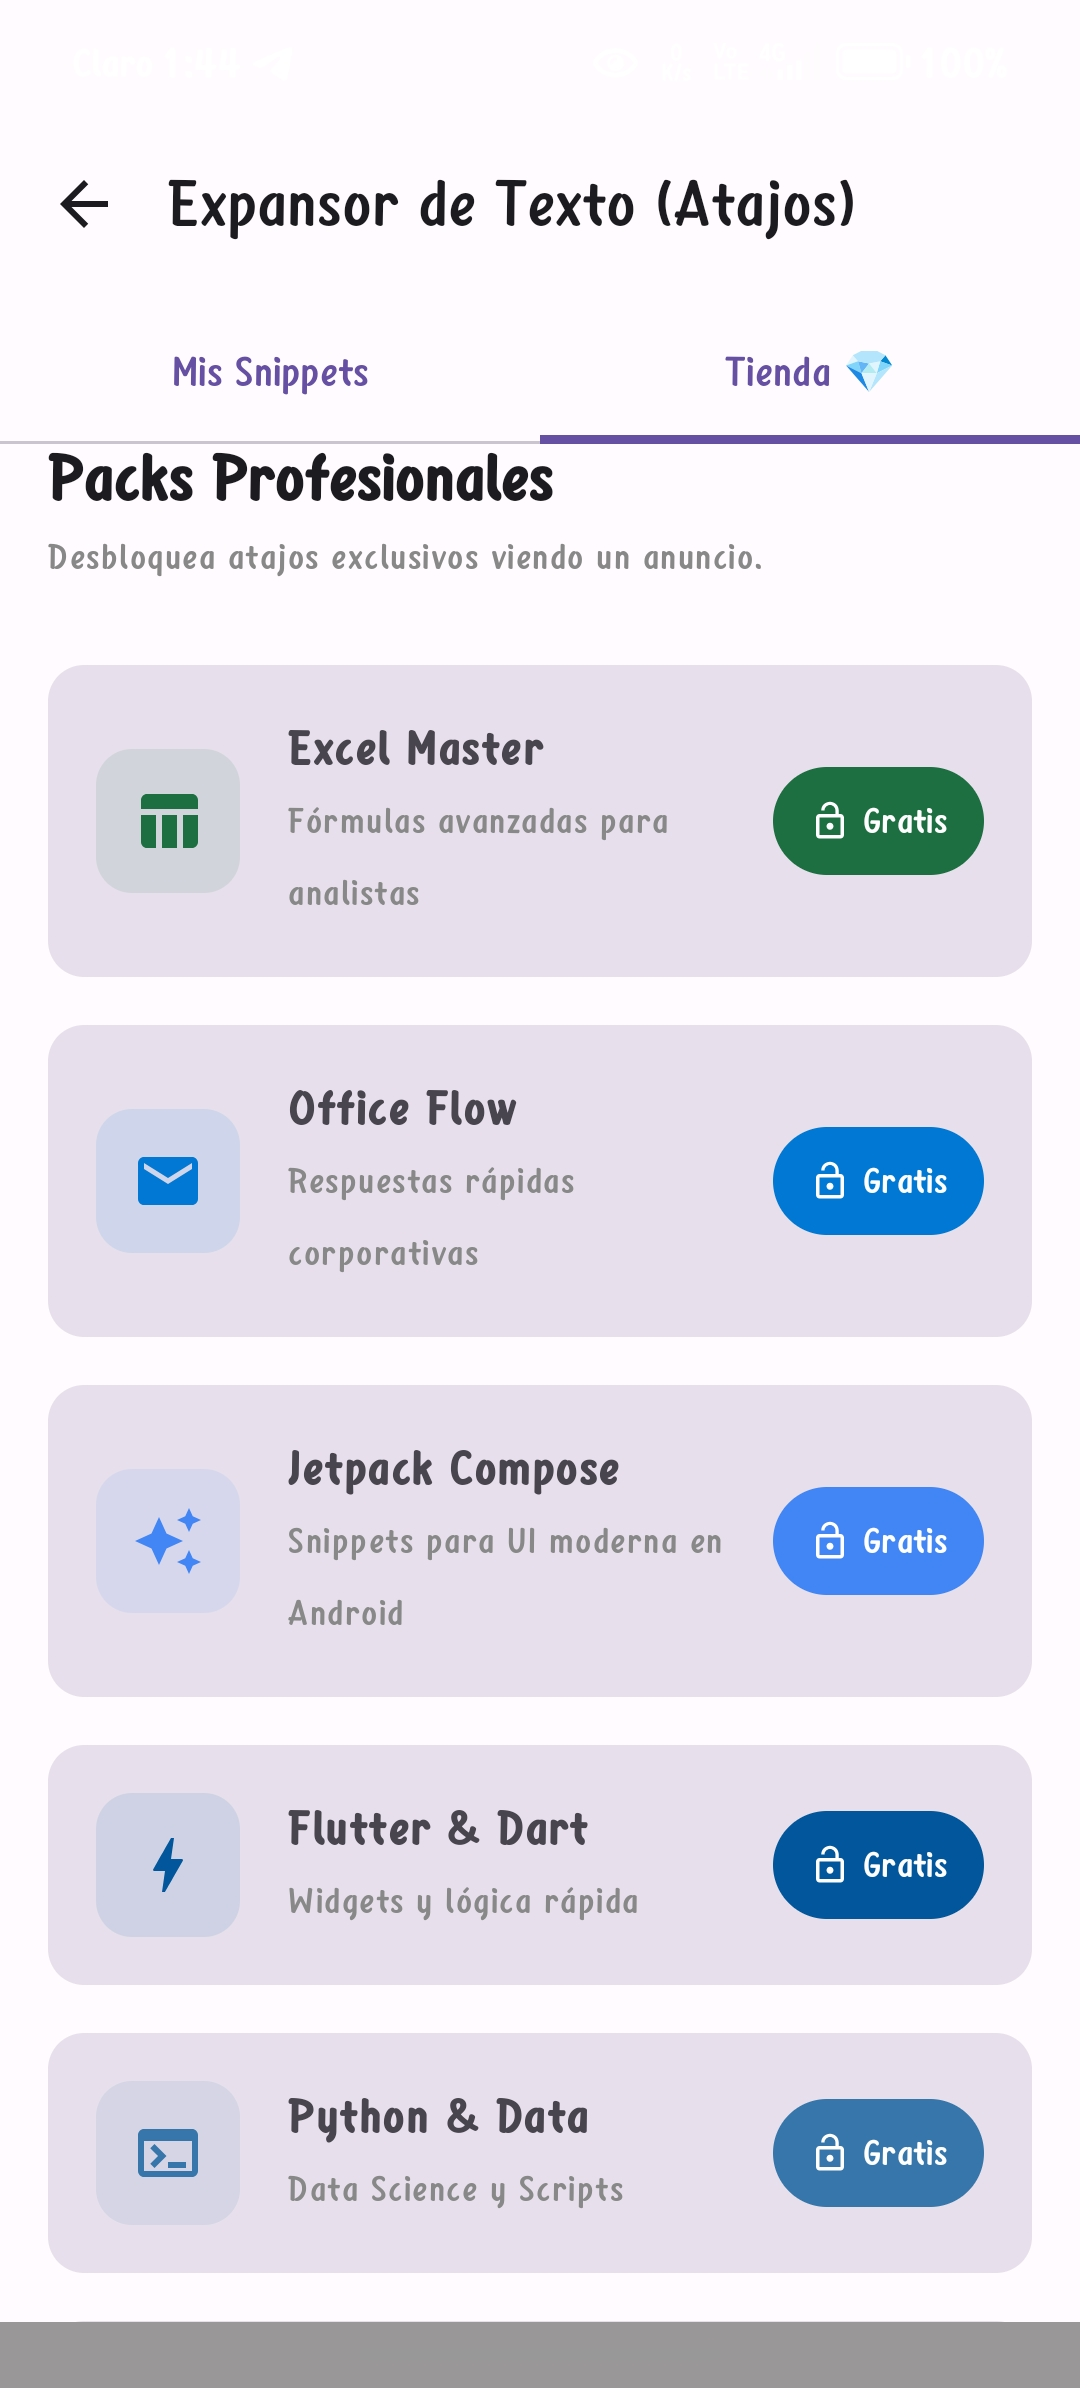
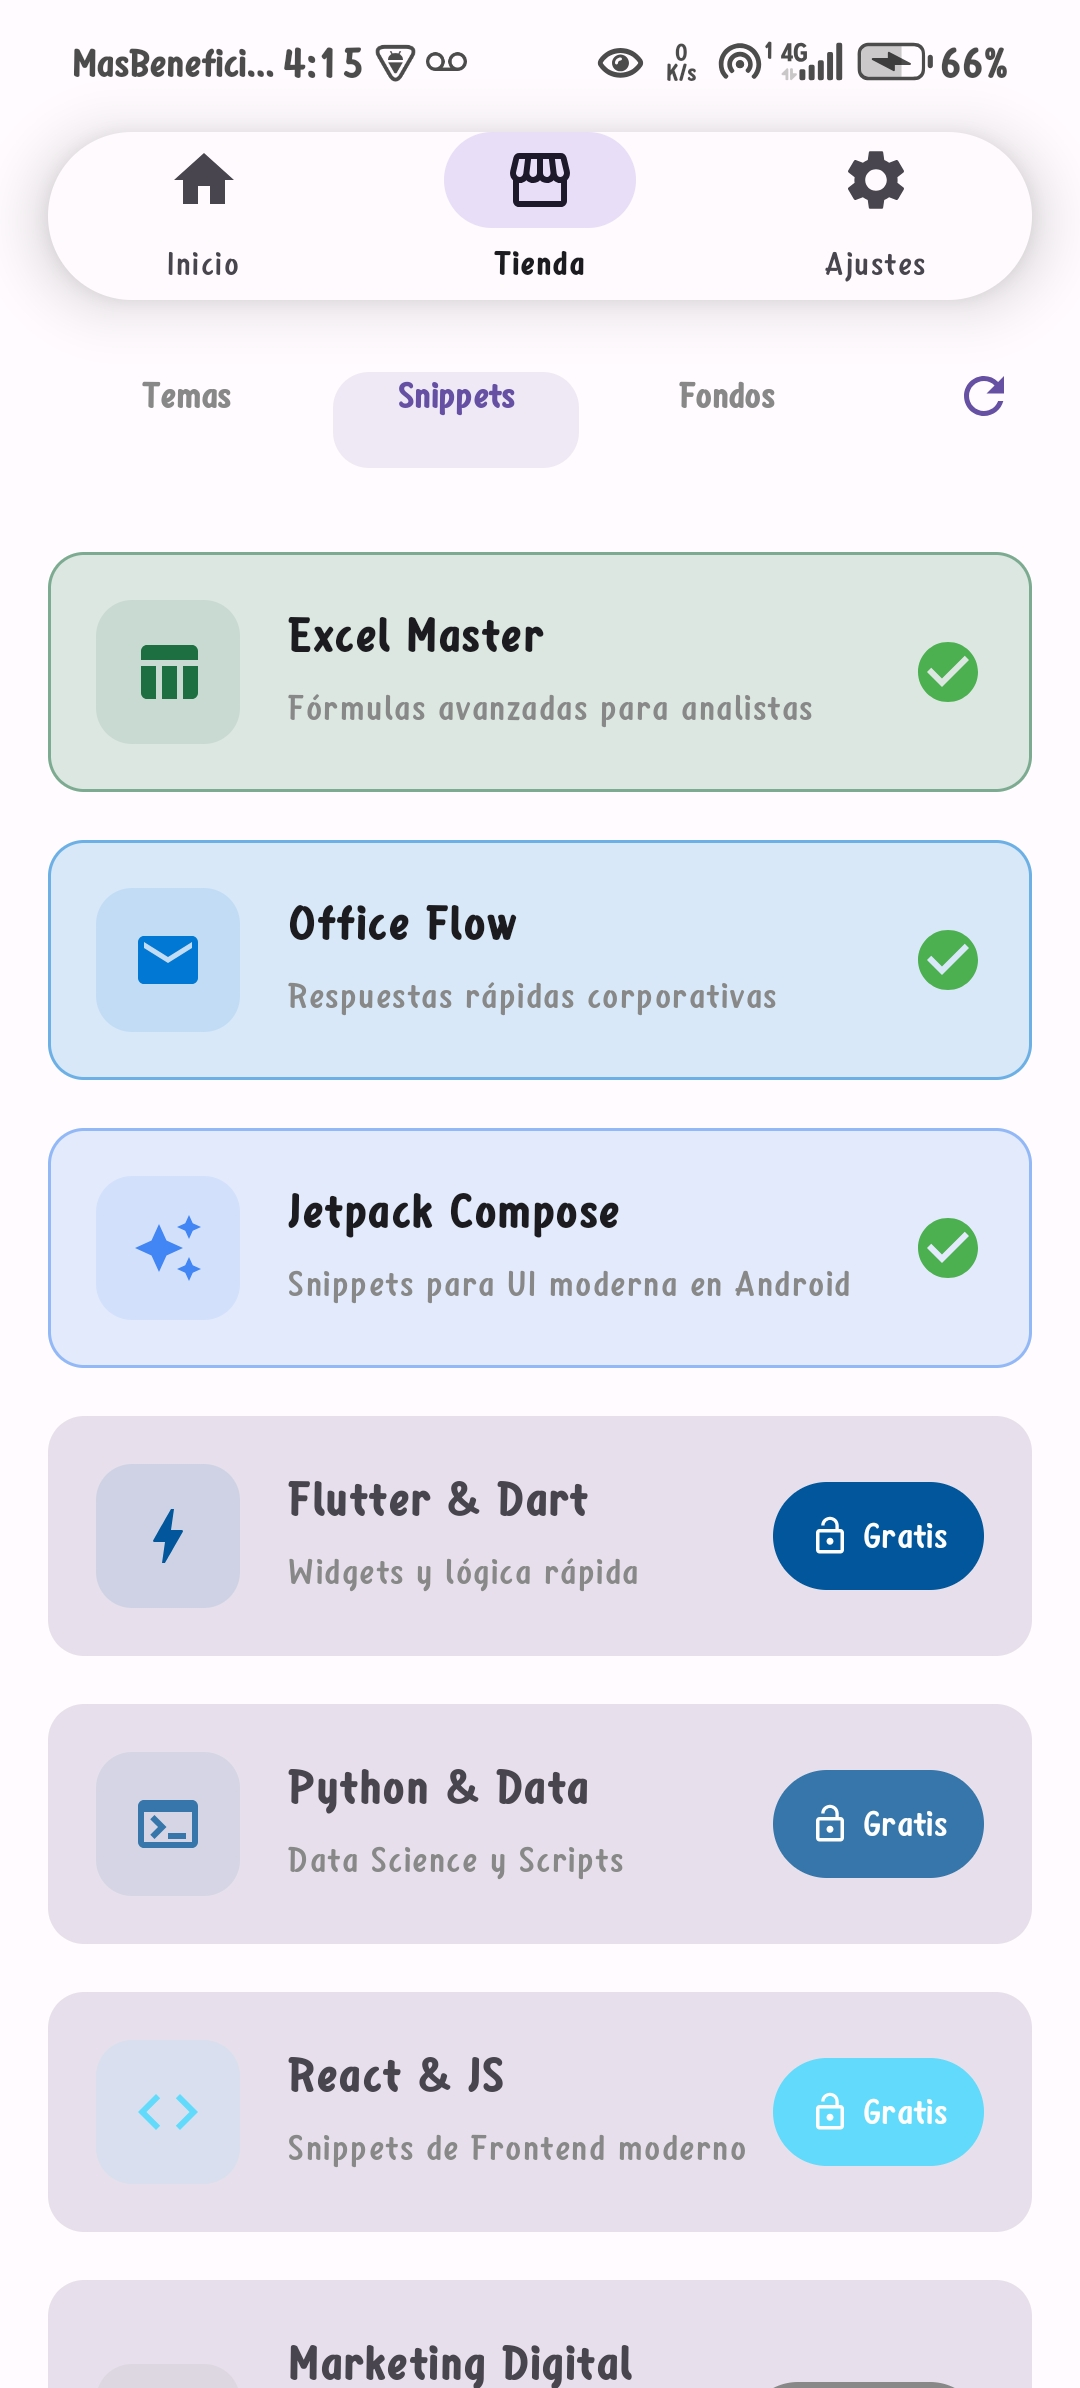
1.23 prueba

diff --git a/index.html b/index.html
@@ -256,7 +256,7 @@
     </header>
 
     <section class="hero">
-        <span class="section-tag">Versión 1.20-prueba ya disponible</span>
+        <span class="section-tag">Versión 1.23-prueba ya disponible</span>
         <h1>Escribe con Fluidez,<br>Diseña sin Límites.</h1>
         <p>El primer teclado Android con editor de diseño en vivo, gestos de esquina inteligentes y efectos visuales
             reactivos.</p>
@@ -290,9 +290,13 @@
                 personalizados.</p>
         </div>
         <div class="feature-card">
-            <h3>🎭 Crea Stickers 🫥 </h3>
+            <h3>🎭 Crea Stickers </h3>
             <p>Genera stickers personalizados a partir de texto
-                esquina? Solo arrastra y suelta.</p>
+                o stickers previamente generados.</p>
+        </div>
+        <div class="feature-card">
+            <h3>🫥 Descarga íconos </h3>
+            <p>Expórtalos como svg o xml.</p>
         </div>
     </section>
 
@@ -302,10 +306,14 @@
         <p>Ya seas programador, escritor o gamer, LKeyboard tiene una plantilla para ti.</p>
 
         <div class="gallery">
+            <div class="gallery-item"><img src="screenshots/inicio.jpg" alt="LKeyboard Preview" style="width: 100%; height: 100%; object-fit: cover;"></div>
+            <div class="gallery-item"><img src="screenshots/config.jpg" alt="LKeyboard Preview" style="width: 100%; height: 100%; object-fit: cover;"></div>
+            <div class="gallery-item"><img src="screenshots/fondos.jpg" alt="LKeyboard Preview" style="width: 100%; height: 100%; object-fit: cover;"></div>
+            <div class="gallery-item"><img src="screenshots/gen-stickers.jpg" alt="LKeyboard Preview" style="width: 100%; height: 100%; object-fit: cover;"></div>
+            <div class="gallery-item"><img src="screenshots/gen-stickers.jpg" alt="LKeyboard Preview" style="width: 100%; height: 100%; object-fit: cover;"></div>
+            <div class="gallery-item"><img src="screenshots/calculadora.jpg" alt="LKeyboard Preview" style="width: 100%; height: 100%; object-fit: cover;"></div>
             <div class="gallery-item"><img src="screenshots/img-snippets.jpg" alt="LKeyboard Preview" style="width: 100%; height: 100%; object-fit: cover;"></div>
             <div class="gallery-item"><img src="screenshots/LayoutEditor.jpg" alt="LKeyboard Preview" style="width: 100%; height: 100%; object-fit: cover;"></div>
-            <div class="gallery-item">[Configuración de Emojis]</div>
-            <div class="gallery-item">[Efecto de Onda RGB]</div>
         </div>
     </section>
 

diff --git a/privacy-policy.html b/privacy-policy.html
@@ -76,7 +76,7 @@
         <p>La aplicación solicita permisos específicos para su funcionamiento local:</p>
         <ul>
             <li><strong>Vibración:</strong> Para proporcionar respuesta háptica al pulsar teclas.</li>
-            <li><strong>Micrófono:</strong> Únicamente si utilizas la función de dictado por voz. El audio se procesa a través de los servicios del sistema Android.</li>
+            <li><strong>Micrófono:</strong> Uso del Micrófono y Dictado por Voz: "LKeyboard solicita acceso al micrófono únicamente cuando el usuario activa la función de dictado por voz. Los datos de audio se procesan exclusivamente para la conversión de voz a texto utilizando las APIs oficiales de Android y Google ML Kit. El audio no se almacena en servidores externos, no se comparte con terceros y no se recopila de forma persistente."</li>
             <li><strong>Almacenamiento:</strong> Para guardar tus configuraciones de diseño y temas personalizados en tu propio dispositivo.</li>
         </ul>
 
